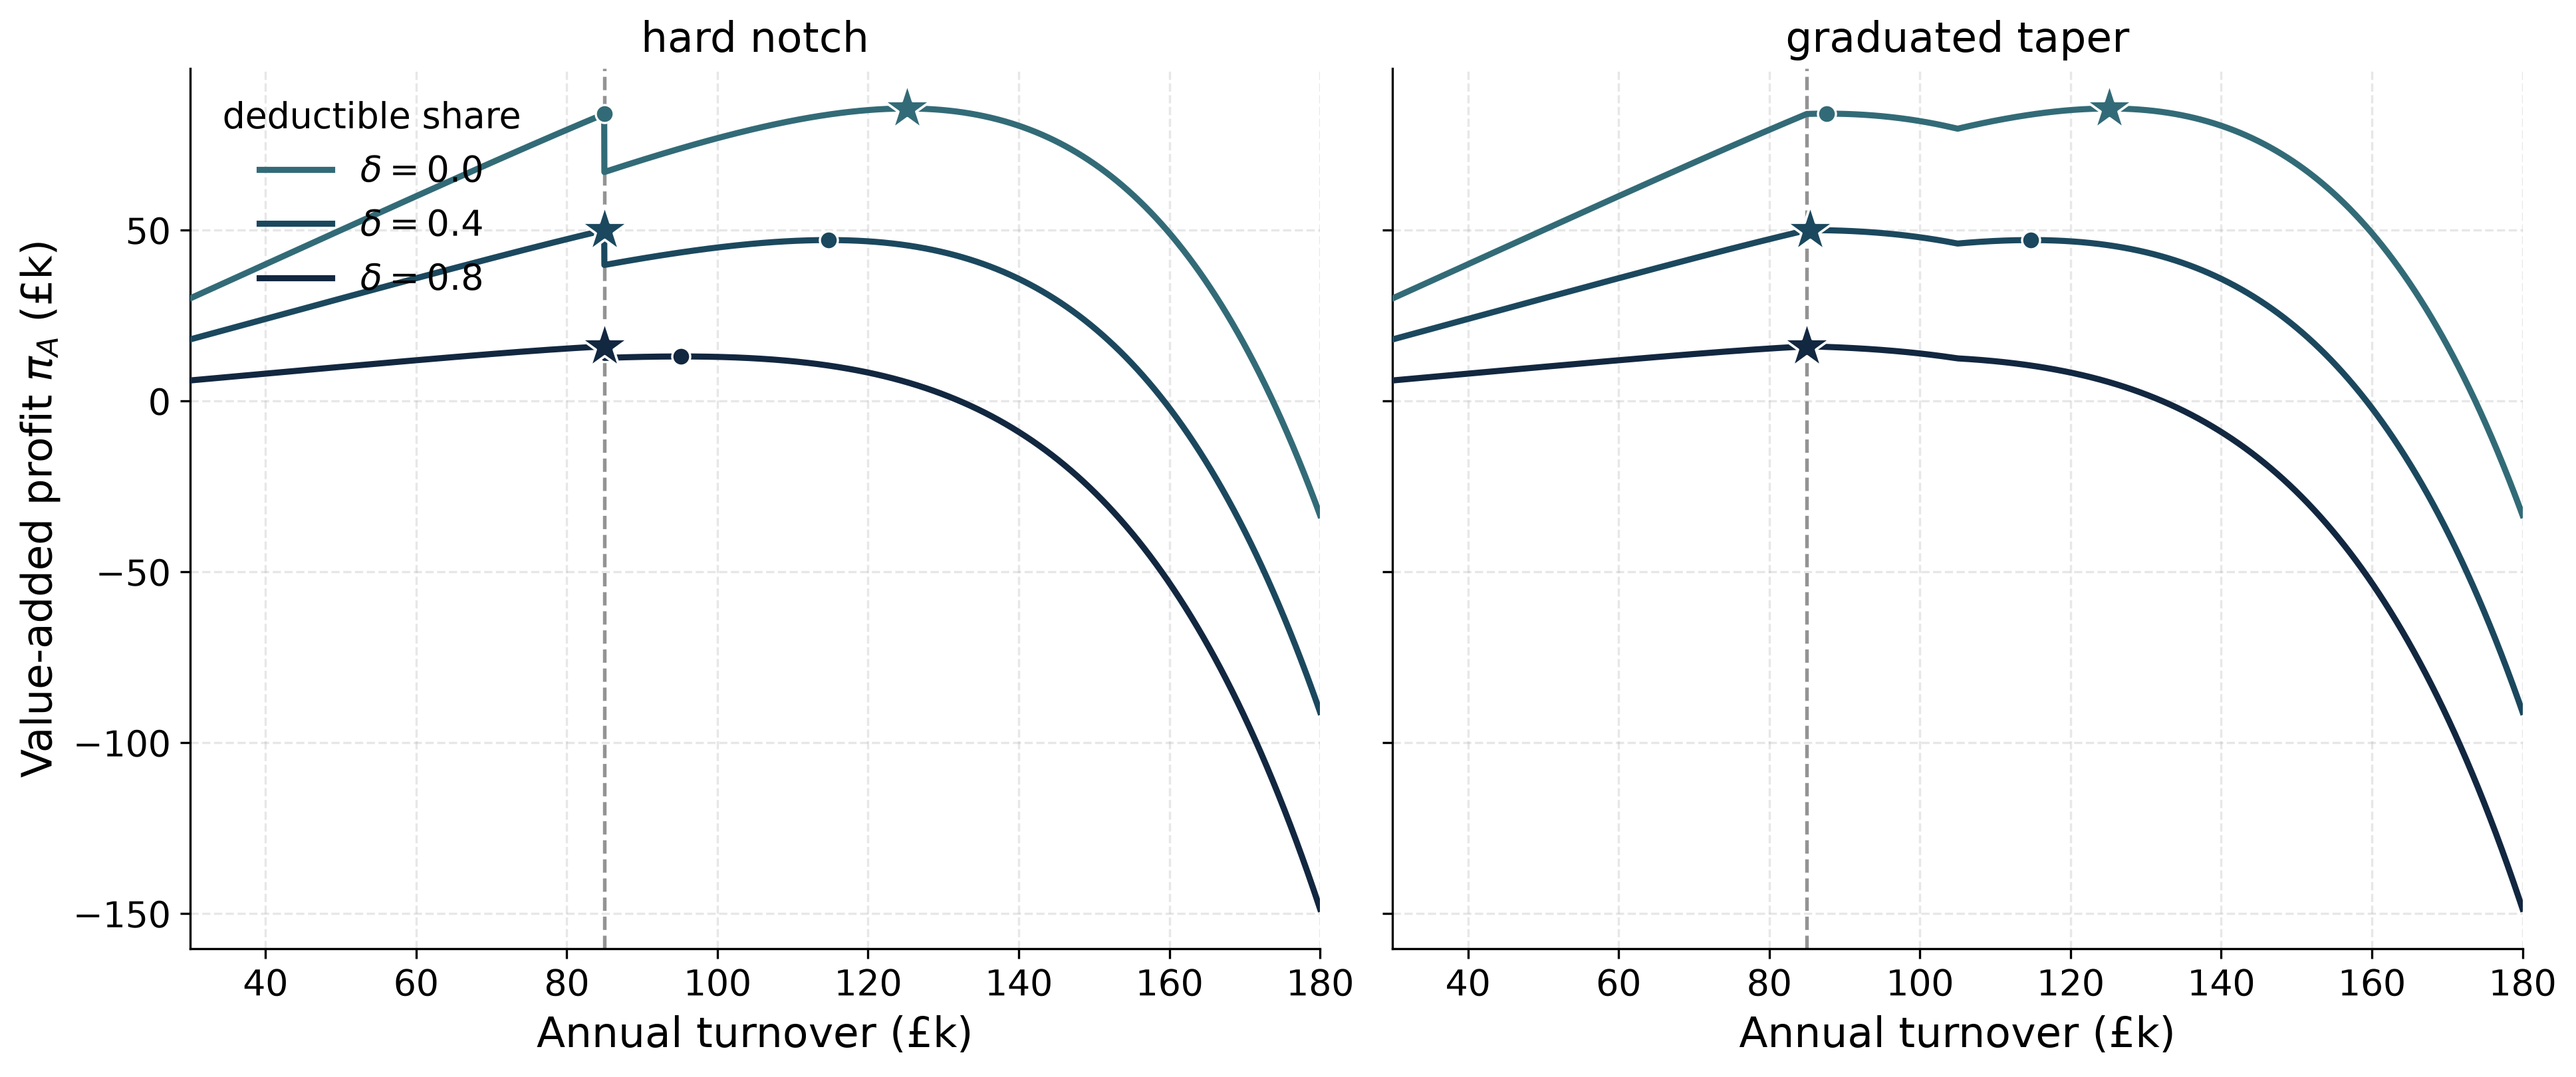
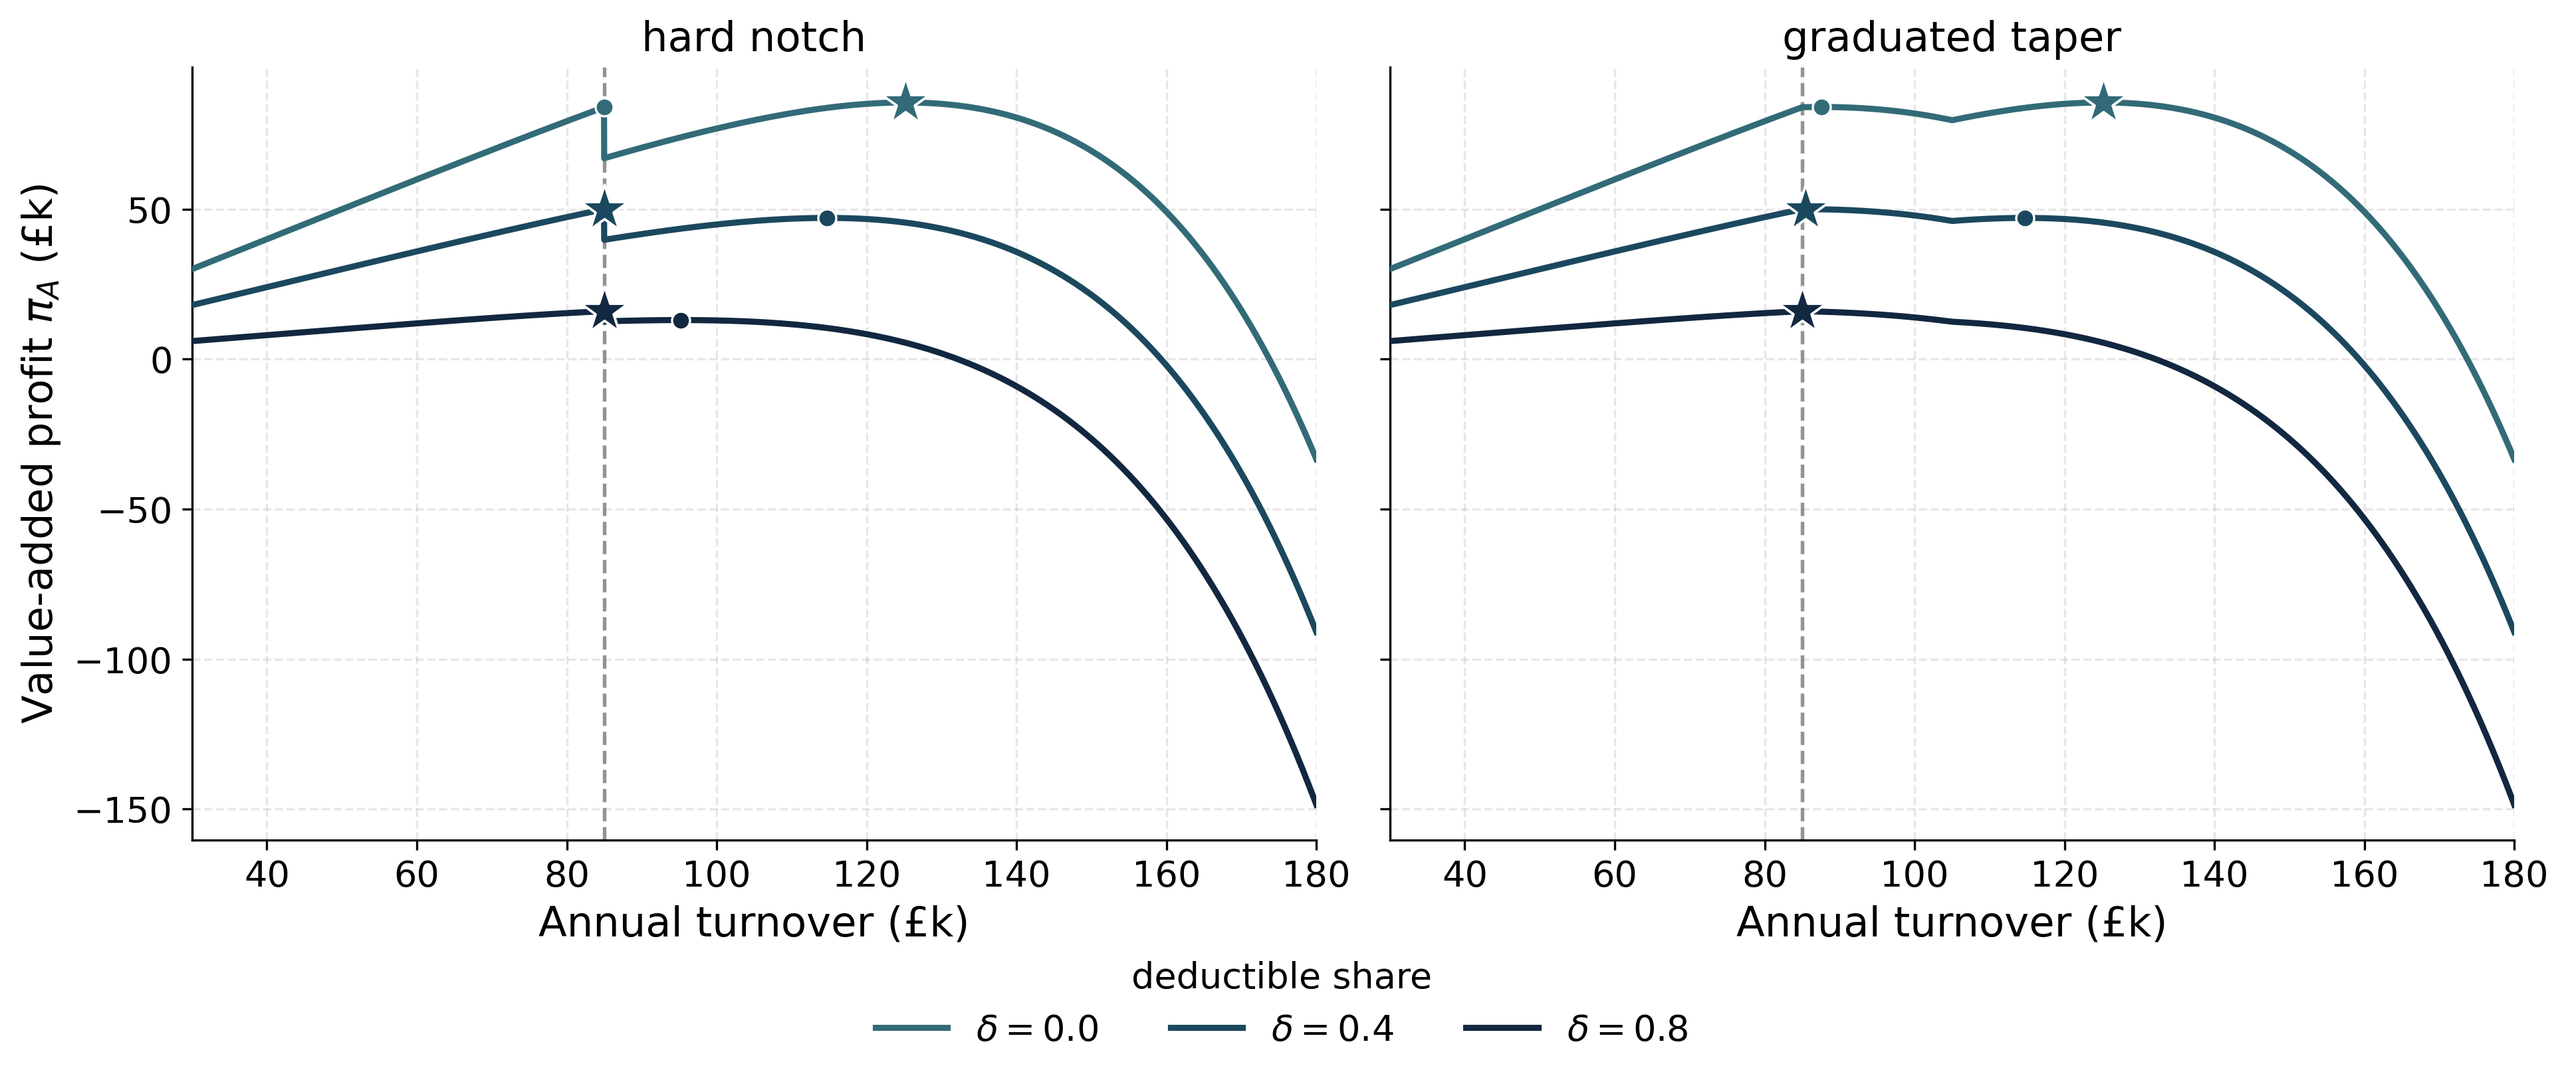
Deck: bottom legend on formulation-A figure; page numbers in PDF export
Regenerate formulation_a_optima.png from the in-repo script (legend moved
below the panels, no longer overlapping the curves) and sync it into the
deck. In export mode, render the page counter (without nav buttons) so
exported PDFs carry visible page numbers; appendix pages remain labelled
'Appendix'.

diff --git a/paper/slides/presentation/components/core/SlideshowViewer.tsx b/paper/slides/presentation/components/core/SlideshowViewer.tsx
@@ -92,6 +92,16 @@ function SlideshowViewerClient({ config }: SlideshowViewerProps) {
       >
         <div className="slide-active">{currentSlideElement}</div>
 
+        {isExport && (
+          <div className="pointer-events-none fixed bottom-0 right-0 z-50 flex h-18 items-center px-8 text-white">
+            <span className="text-sm font-semibold">
+              {currentSlide < (config.mainSlideCount ?? slides.length)
+                ? `${currentSlide + 1} / ${config.mainSlideCount ?? slides.length}`
+                : "Appendix"}
+            </span>
+          </div>
+        )}
+
         {!isFullscreen && !isExport && (
           <div className="pointer-events-none fixed bottom-0 left-0 right-0 z-50 flex h-18 items-center justify-end gap-4 px-8 text-white">
             <button
